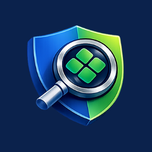
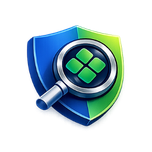
alt

diff --git a/scripts/generate-pwa-icons.js b/scripts/generate-pwa-icons.js
@@ -1,33 +1,41 @@
-
 import fs from 'fs';
 import path from 'path';
 import { fileURLToPath } from 'url';
 
 /**
- * IDENTIFICAPIX - PWA ASSET GENERATOR (ESM VERSION)
- * Materializa os ícones PNG na pasta public/pwa a partir de base64.
- * Garante que os arquivos existam para o build e evita fallback SPA (404 -> index.html).
+ * IDENTIFICAPIX - PWA ASSET GENERATOR (SAFE VERSION)
+ * Copia a logo real para os ícones do PWA sem sobrescrever indevidamente.
  */
 
 const __filename = fileURLToPath(import.meta.url);
 const __dirname = path.dirname(__filename);
-const targetDir = path.join(__dirname, '../public/pwa');
 
-// Base64 de um ícone minimalista IdentificaPix (Azul Profundo com Gradient Cyan)
[1 lines of base64/hex data omitted]
+const targetDir = path.join(__dirname, '../public/pwa');
+const sourceLogo = path.join(__dirname, '../public/logo.png');
 
 console.log("[PWA-Generator] Iniciando materialização de ativos...");
+
+if (!fs.existsSync(sourceLogo)) {
+    console.error(`[PWA-Generator] ❌ Logo base não encontrada em: ${sourceLogo}`);
+    process.exit(1);
+}
 
 if (!fs.existsSync(targetDir)) {
     console.log(`[PWA-Generator] Criando diretório: ${targetDir}`);
     fs.mkdirSync(targetDir, { recursive: true });
 }
 
-const icons = ['icon-192.png', 'icon-512.png', 'maskable-icon-512.png'];
+const icons = [
+    'icon-192.png',
+    'icon-512.png',
+    'maskable-icon-512.png'
+];
 
 icons.forEach(filename => {
     const filePath = path.join(targetDir, filename);
-    fs.writeFileSync(filePath, Buffer.from(LOGO_BASE64, 'base64'));
+
+    fs.copyFileSync(sourceLogo, filePath);
+
     console.log(`[PWA-Generator] Gerado: ${filename}`);
 });
 
